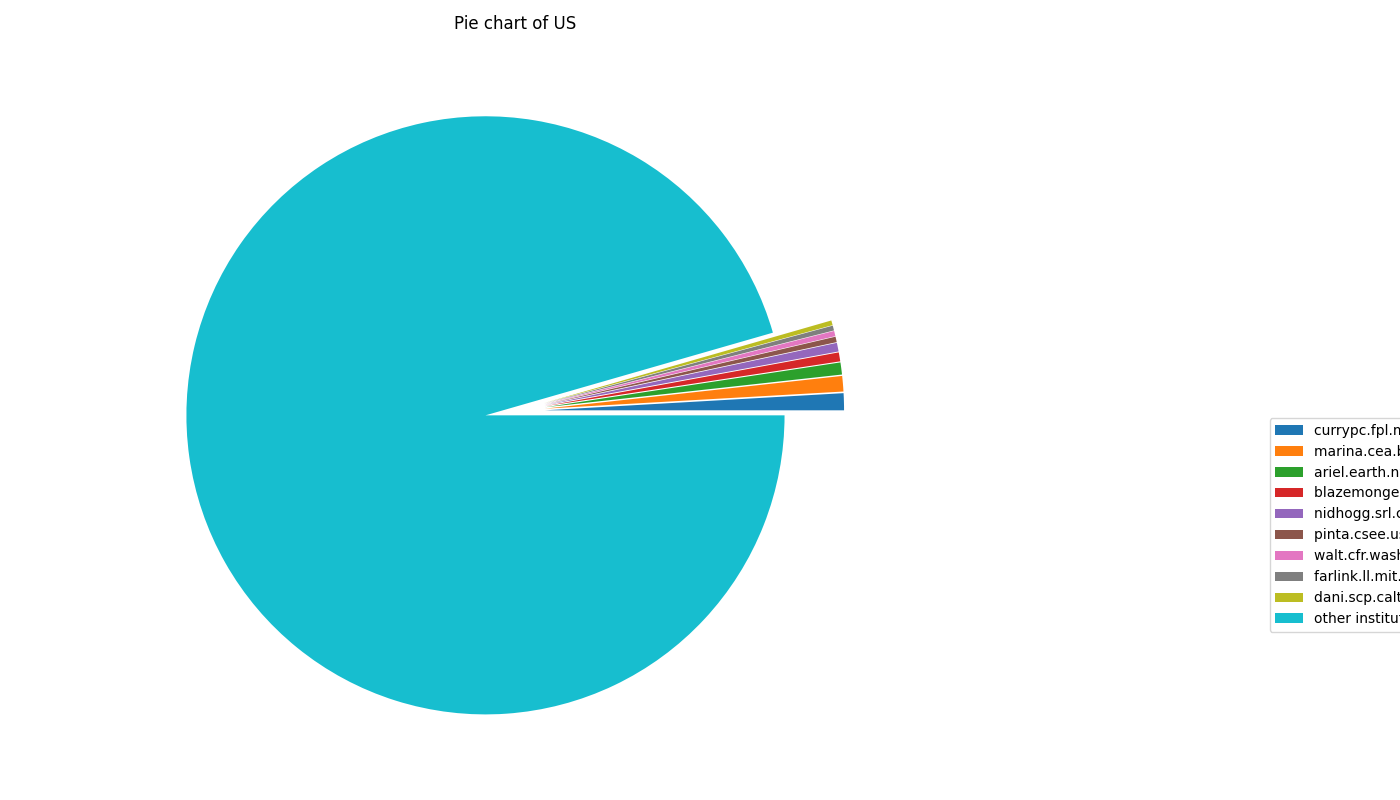
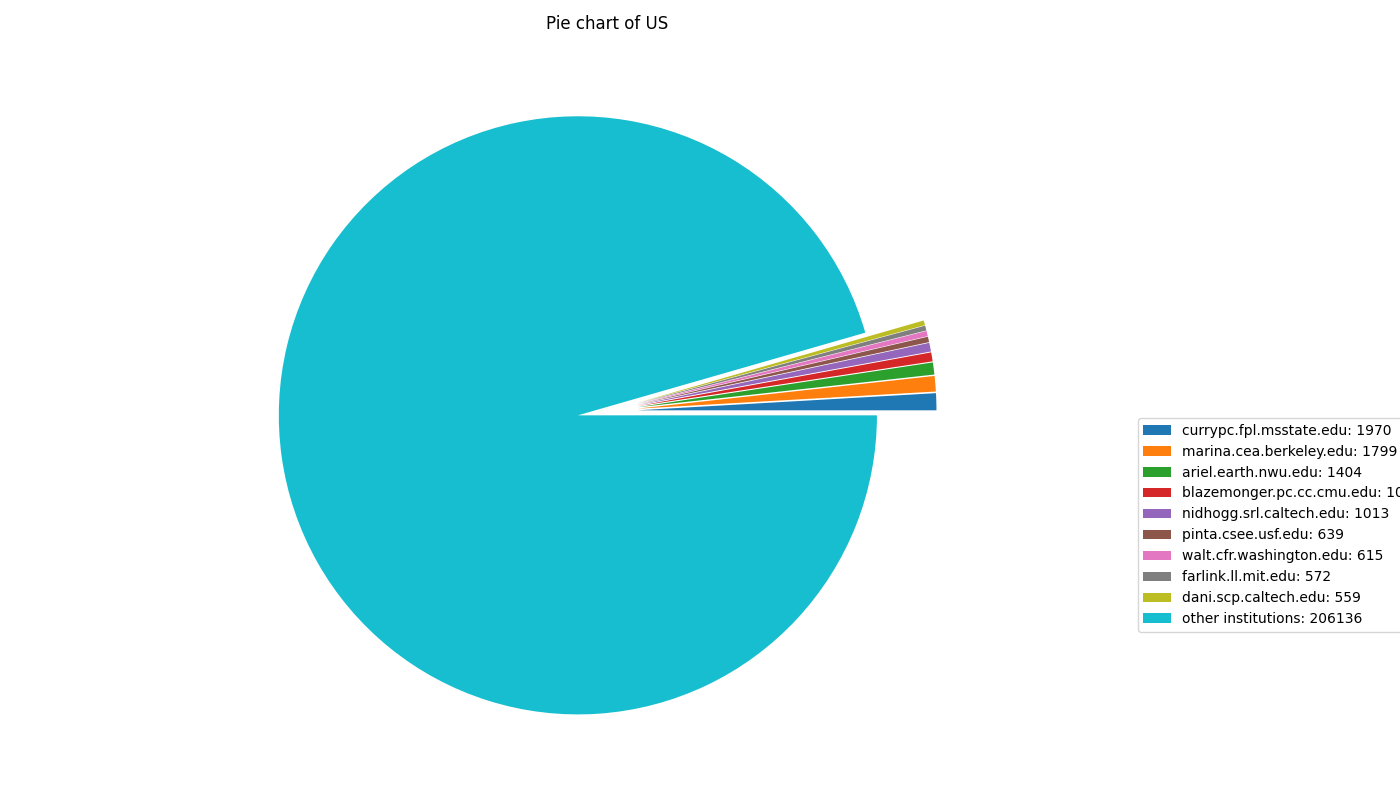
heatmap

Changed region(s): [[0.1229, 0.125, 0.6757, 0.9062], [0.7986, 0.5312, 1.0, 0.7812], [0.3379, 0.0, 0.4607, 0.0312]]

diff --git a/acp23ws-COM6012/Q1_B.py b/acp23ws-COM6012/Q1_B.py
@@ -89,7 +89,7 @@ for country in ['UK', 'US', 'Australia']:
     plt.pie(pd_df['count'], explode=[0.1]*len(pd_df))
     plt.title(f"Pie chart of {country}")
     legend_txt = [f'{host}: {count}' for host, count in zip(pd_df['host'], pd_df['count'])]
-    plt.legend(legend_txt, loc='upper left', bbox_to_anchor=(1.5, 0.5))
+    plt.legend(legend_txt, loc='upper left', bbox_to_anchor=(1.2, 0.5))
     plt.tight_layout()
     plt.savefig(f"{country}.png")
 
@@ -126,7 +126,7 @@ for country in ['UK', 'US', 'Australia']:
     
     #plt.figure(figsize=(14, 8))
     sns.heatmap(country_pivot, annot=True)
-    #plt.title(f"Pie chart of {country}")
+    plt.title(f"Heatmap of {country}")
     #legend_txt = [f'{host}: {count}' for host, count in zip(pd_df['host'], pd_df['count'])]
     #plt.legend(legend_txt, loc='upper left', bbox_to_anchor=(1.5, 0.5))
     plt.tight_layout()
